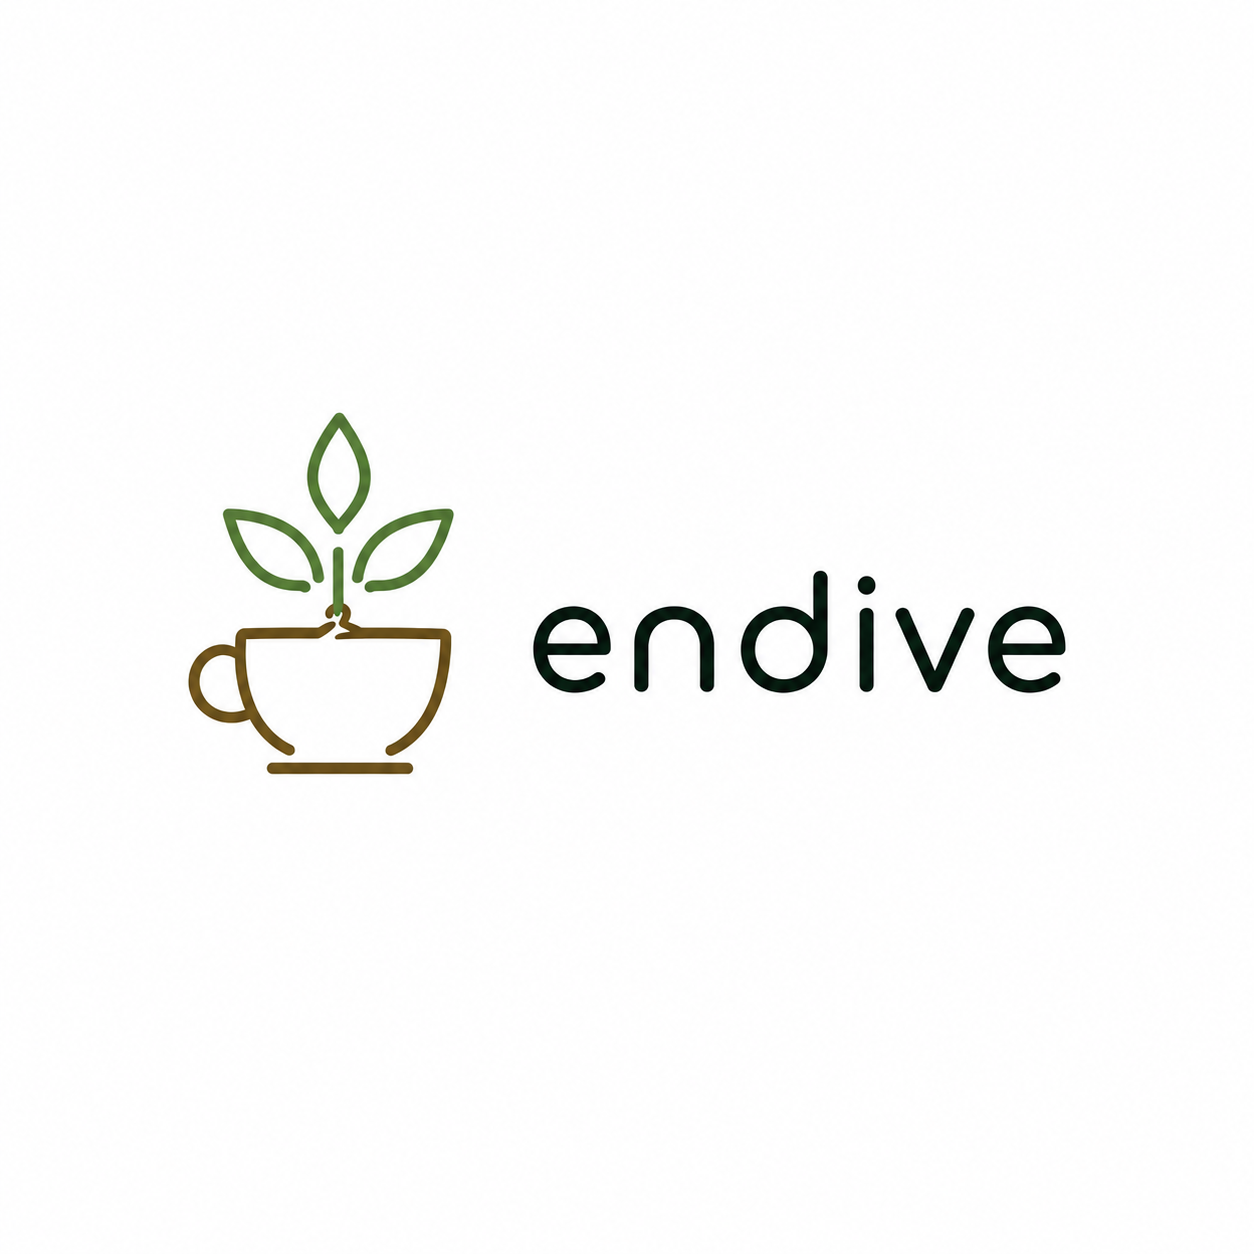
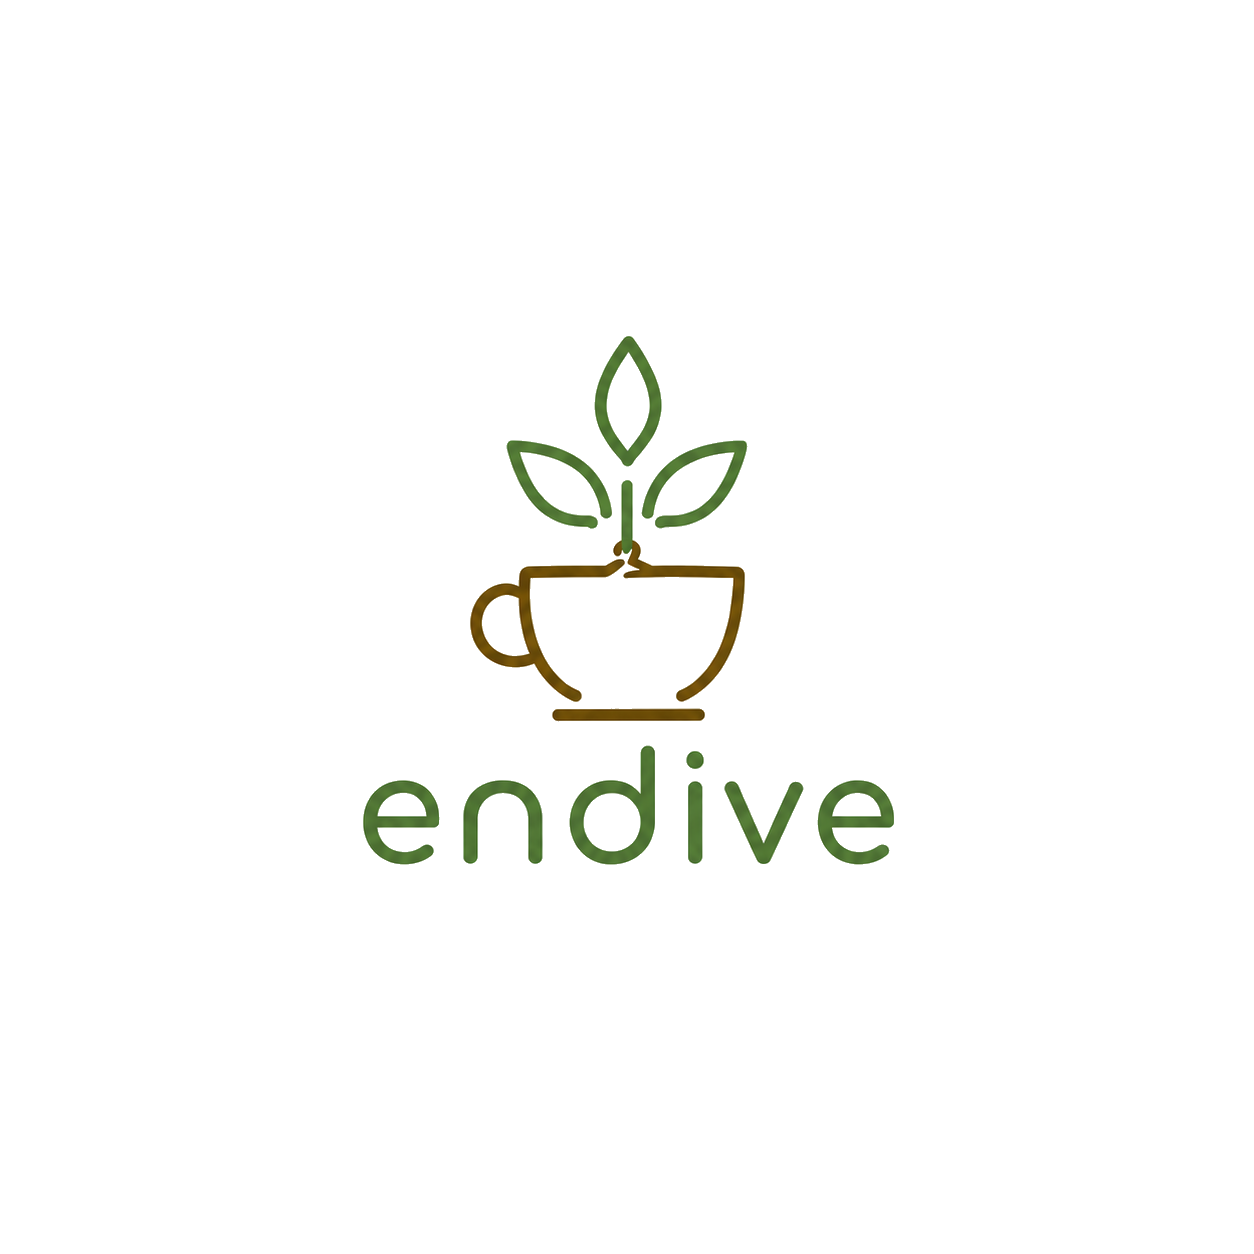
Overhaul docs site branding and front page
- Color scheme: olive green (#4a6b2a light, #8bb86a dark) matching
  the Endive logo palette. Dark footer (#1a2e1a)
- Logos: transparent hex logos for navbar, trimmed hero images with
  CSS filter for dark mode (invert + hue-rotate), new favicon
  cropped to cup+leaves icon only
- Front page: ThemedImage hero with light/dark variants, subtitle,
  Get Started + GitHub buttons
- Feature icons: custom SVGs (package box, shield, puzzle piece)
  using currentColor for theme adaptation
- Docusaurus config: dark logo variant, updated redirects for
  restructured docs, Bytecode Alliance footer

Changed region(s): [[0.1244, 0.2488, 0.8708, 0.7153]]

diff --git a/docs/docusaurus.config.ts b/docs/docusaurus.config.ts
@@ -35,12 +35,64 @@ const config: Config = {
       {
         redirects: [
           {
-            to: '/docs/usage/annotations',
-            from: ['/docs/experimental/host-modules'],
+            to: '/docs/annotations',
+            from: ['/docs/experimental/host-modules', '/docs/usage/annotations'],
           },
           {
-            to: '/docs/usage/runtime-compiler',
-            from: ['/docs/experimental/aot'],
+            to: '/docs/execution/runtime-compiler',
+            from: ['/docs/experimental/aot', '/docs/usage/runtime-compiler'],
+          },
+          {
+            to: '/docs/execution/build-time-compiler',
+            from: ['/docs/usage/build-time-compiler'],
+          },
+          {
+            to: '/docs/core/host-functions',
+            from: ['/docs/usage/host-functions'],
+          },
+          {
+            to: '/docs/core/memory',
+            from: ['/docs/usage/memory'],
+          },
+          {
+            to: '/docs/core/linking',
+            from: ['/docs/usage/linking'],
+          },
+          {
+            to: '/docs/core/execution-modes',
+            from: ['/docs/usage/execution_modes'],
+          },
+          {
+            to: '/docs/wasi',
+            from: ['/docs/usage/wasi'],
+          },
+          {
+            to: '/docs/advanced/cpu-limits',
+            from: ['/docs/usage/cpu'],
+          },
+          {
+            to: '/docs/advanced/simd',
+            from: ['/docs/usage/simd'],
+          },
+          {
+            to: '/docs/advanced/tools',
+            from: ['/docs/usage/tools'],
+          },
+          {
+            to: '/docs/advanced/logging',
+            from: ['/docs/usage/logging'],
+          },
+          {
+            to: '/docs/getting-started/installation',
+            from: ['/docs/usage/bom'],
+          },
+          {
+            to: '/docs/advanced/memory-customization',
+            from: ['/docs/advanced/memory'],
+          },
+          {
+            to: '/docs/execution/compiler-cache',
+            from: ['/docs/experimental/runtime-compiler-cache'],
           },
         ],
       },
@@ -79,6 +131,7 @@ const config: Config = {
       logo: {
         alt: 'Endive Logo',
         src: 'img/endive.png',
+        srcDark: 'img/endive-dark.png',
       },
       items: [
         {

diff --git a/docs/src/css/custom.css b/docs/src/css/custom.css
@@ -4,27 +4,29 @@
  * work well for content-centric websites.
  */
 
-/* You can override the default Infima variables here. */
 :root {
-  --ifm-color-primary: #4a7c99; /* Adjusted to a teal color */
-  --ifm-color-primary-dark: #2a202b;
-  --ifm-color-primary-darker: #1f2e3d; /* Darkened to contrast with the lighter colors */
-  --ifm-color-primary-darkest: #000000;
-  --ifm-color-primary-light: #6ea5bd; /* A lighter tone for readability */
-  --ifm-color-primary-lighter: #88b2c7; /* A softer shade */
-  --ifm-color-primary-lightest: #9cc4d4; /* Very light for accents */
+  --ifm-color-primary: #4a6b2a;
+  --ifm-color-primary-dark: #3d5a1e;
+  --ifm-color-primary-darker: #335019;
+  --ifm-color-primary-darkest: #243a10;
+  --ifm-color-primary-light: #5a7d38;
+  --ifm-color-primary-lighter: #6a8d48;
+  --ifm-color-primary-lightest: #7ea05c;
   --ifm-code-font-size: 95%;
-  --docusaurus-highlighted-code-line-bg: rgba(0, 0, 0, 0.1);
+  --docusaurus-highlighted-code-line-bg: rgba(74, 107, 42, 0.1);
 }
 
-/* Dark mode adjustments */
 [data-theme='dark'] {
-  --ifm-color-primary: #209683; /* Muted teal color */
-  --ifm-color-primary-dark: #1b7a6a; /* A bit darker but still within the same hue */
-  --ifm-color-primary-darker: #176f61; /* Darker tone for depth */
-  --ifm-color-primary-darkest: #13564e; /* Deepest tone for contrast */
-  --ifm-color-primary-light: #27a792; /* Softened light version */
-  --ifm-color-primary-lighter: #3cb7a2; /* Lighter for accents */
-  --ifm-color-primary-lightest: #57c6b3; /* Lightest, slightly muted */
-  --docusaurus-highlighted-code-line-bg: rgba(255, 255, 255, 0.2); /* Soft highlight */
+  --ifm-color-primary: #8bb86a;
+  --ifm-color-primary-dark: #7da85c;
+  --ifm-color-primary-darker: #6f9a4e;
+  --ifm-color-primary-darkest: #5a7d38;
+  --ifm-color-primary-light: #99c47a;
+  --ifm-color-primary-lighter: #a7d08a;
+  --ifm-color-primary-lightest: #b5dca0;
+  --docusaurus-highlighted-code-line-bg: rgba(139, 184, 106, 0.15);
+}
+
+.footer--dark {
+  --ifm-footer-background-color: #1a2e1a;
 }

diff --git a/docs/src/pages/index.tsx b/docs/src/pages/index.tsx
@@ -1,27 +1,37 @@
 import clsx from 'clsx';
 import Link from '@docusaurus/Link';
-import useDocusaurusContext from '@docusaurus/useDocusaurusContext';
 import Layout from '@theme/Layout';
 import HomepageFeatures from '@site/src/components/HomepageFeatures';
-import Heading from '@theme/Heading';
+import ThemedImage from '@theme/ThemedImage';
 
 import styles from './index.module.css';
 
 function HomepageHeader() {
-  const {siteConfig} = useDocusaurusContext();
   return (
-    <header className={clsx('hero hero--primary', styles.heroBanner)}>
+    <header className={clsx('hero', styles.heroBanner)}>
       <div className="container">
-        <Heading as="h1" className="hero__title">
-          {siteConfig.title}
-        </Heading>
-        <p className="hero__subtitle">{siteConfig.tagline}</p>
-        <img className={styles.bigLogo} src="img/endive.png"/>
+        <ThemedImage
+          className={styles.heroLogo}
+          alt="Endive"
+          sources={{
+            light: 'img/endive-hero.png',
+            dark: 'img/endive-hero-dark.png',
+          }}
+        />
+        <p className={clsx('hero__subtitle', styles.heroSubtitle)}>
+          A JVM native WebAssembly runtime
+        </p>
         <div className={styles.buttons}>
           <Link
-            className="button button--secondary button--lg"
+            className="button button--primary button--lg"
             to="/docs">
             Get Started
+          </Link>
+          <Link
+            className="button button--outline button--lg"
+            to="https://github.com/bytecodealliance/endive"
+            style={{marginLeft: '1rem'}}>
+            GitHub
           </Link>
         </div>
       </div>
@@ -30,11 +40,10 @@ function HomepageHeader() {
 }
 
 export default function Home(): JSX.Element {
-  const {siteConfig} = useDocusaurusContext();
   return (
     <Layout
-      title={`Hello from ${siteConfig.title}`}
-      description="Description will go into a meta tag in <head />">
+      title="JVM native WebAssembly runtime"
+      description="Endive is a JVM native WebAssembly runtime with zero native dependencies.">
       <HomepageHeader />
       <main>
         <HomepageFeatures />

diff --git a/docs/src/components/HomepageFeatures/index.tsx b/docs/src/components/HomepageFeatures/index.tsx
@@ -10,35 +10,36 @@ type FeatureItem = {
 
 const FeatureList: FeatureItem[] = [
   {
-    title: 'Pure Java',
-    Svg: require('@site/static/img/zero-deps.svg').default,
+    title: 'Zero Native Dependencies',
+    Svg: require('@site/static/img/icon-zero-deps.svg').default,
     description: (
       <>
-        Using Endive you don't need to rely on any system resource.
-        Everything runs in 100% pure Java on top of the standard library.
+        Run WebAssembly anywhere the JVM runs — no JNI, no native libraries,
+        no platform-specific binaries. Ship a single JAR to every OS and architecture.
       </>
     ),
   },
   {
-    title: 'Easy integration',
-    Svg: require('@site/static/img/wrench.svg').default,
+    title: 'Sandboxed by Default',
+    Svg: require('@site/static/img/icon-sandbox.svg').default,
     description: (
       <>
-        Integrating Endive in your project is smooth and only requires a few steps.
-        Give your application a twist with a plugin system.
+        Wasm modules execute in an isolated sandbox with no ambient capabilities.
+        Your host controls what the guest can access — memory, files, and system calls.
       </>
     ),
   },
   {
-    title: 'Secure by design',
-    Svg: require('@site/static/img/helmet.svg').default,
+    title: 'Drop-in Integration',
+    Svg: require('@site/static/img/icon-integration.svg').default,
     description: (
       <>
-        Web Assembly modules are running in a sandboxed environment.
-        You have full control over the used resources.
+        Add a single Maven dependency to embed Wasm in your Java app.
+        Choose between interpreter, runtime compiler, or build-time compiler
+        depending on your needs.
       </>
     ),
-  }
+  },
 ];
 
 function Feature({title, Svg, description}: FeatureItem) {

diff --git a/docs/src/pages/index.module.css b/docs/src/pages/index.module.css
@@ -8,6 +8,7 @@
   text-align: center;
   position: relative;
   overflow: hidden;
+  background: none;
 }
 
 @media screen and (max-width: 996px) {
@@ -16,14 +17,24 @@
   }
 }
 
+.heroLogo {
+  max-width: 400px;
+  width: 80%;
+  margin-bottom: 1.5rem;
+}
+
+[data-theme='dark'] .heroLogo {
+  filter: invert(0.85) hue-rotate(180deg);
+}
+
+.heroSubtitle {
+  font-size: 1.4rem;
+  margin-bottom: 2rem;
+  color: var(--ifm-color-emphasis-700);
+}
+
 .buttons {
   display: flex;
   align-items: center;
   justify-content: center;
-}
-
-.bigLogo {
-  height: 30%;
-  max-height: 500px;
-  padding: 4em;
 }

diff --git a/docs/src/components/HomepageFeatures/styles.module.css b/docs/src/components/HomepageFeatures/styles.module.css
@@ -6,6 +6,7 @@
 }
 
 .featureSvg {
-  height: 200px;
-  width: 200px;
+  height: 120px;
+  width: 120px;
+  color: var(--ifm-color-primary);
 }